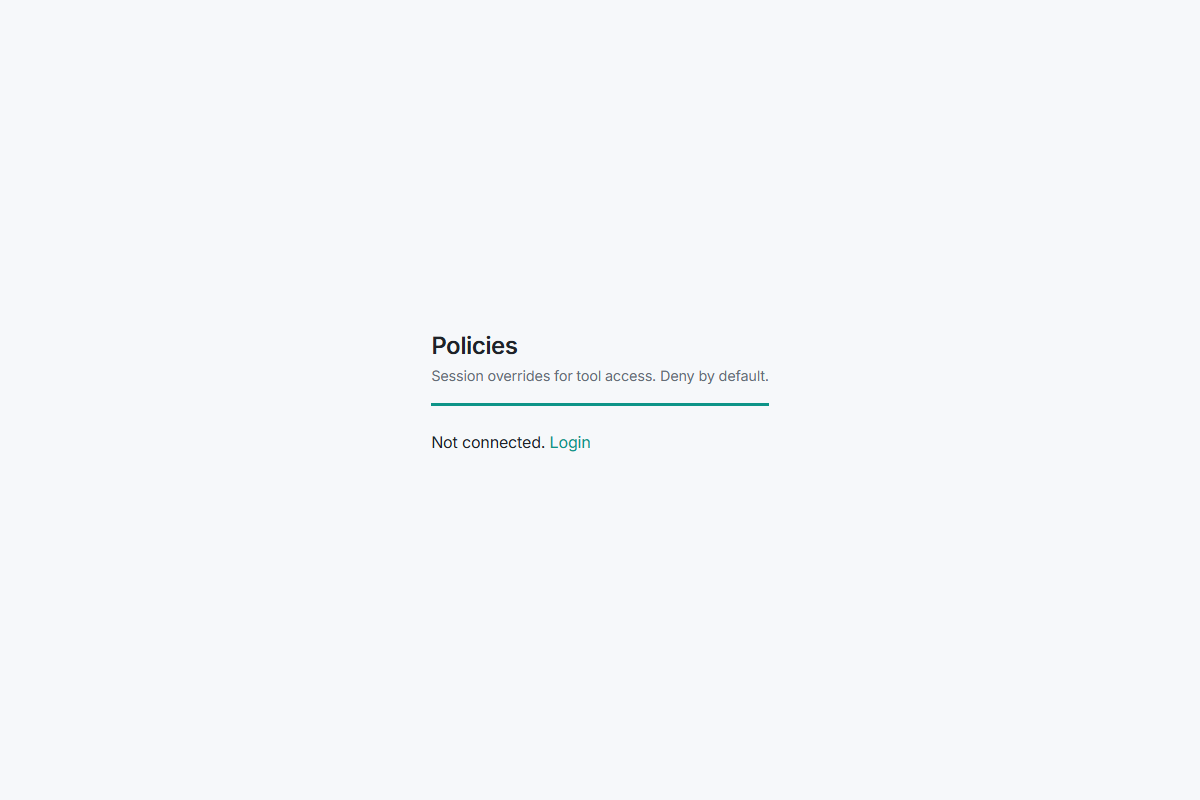
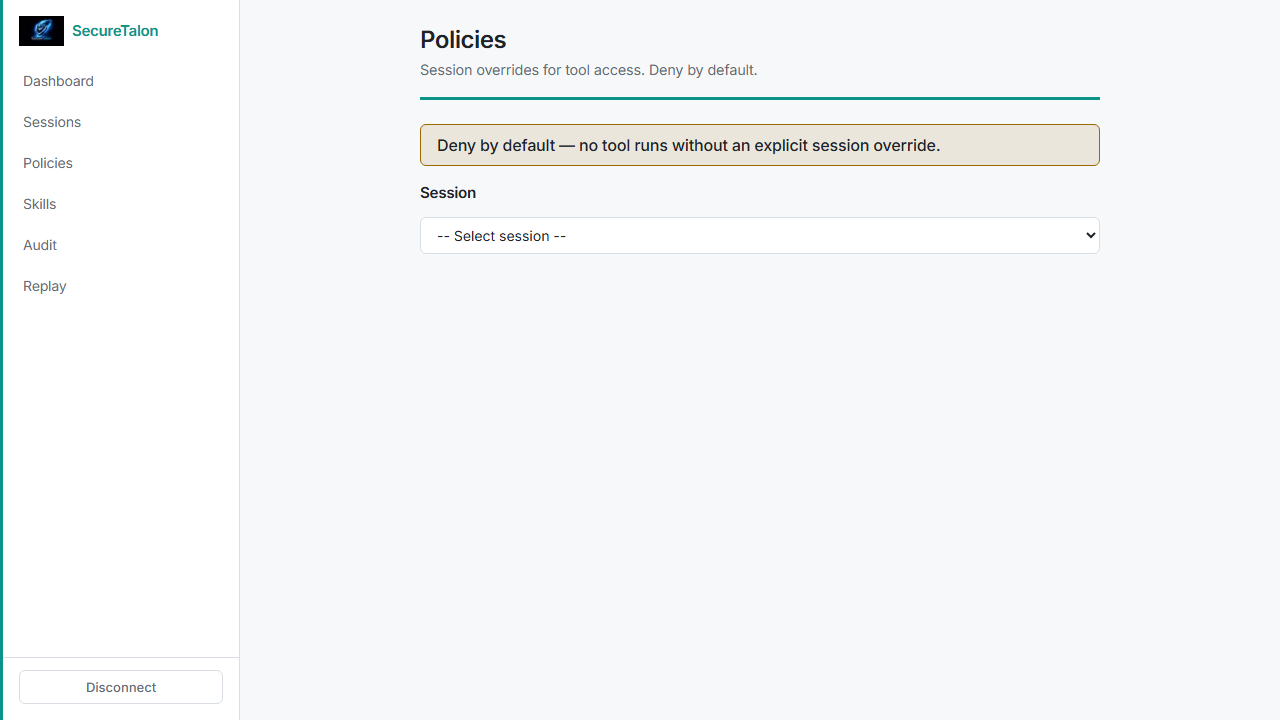
Playwright E2E smoke test, manual screenshots, cleanup obsolete capture scripts

diff --git a/ui/e2e/smoke.spec.ts b/ui/e2e/smoke.spec.ts
@@ -1,0 +1,68 @@
+import { test } from 'playwright/test'
+import { join } from 'path'
+
+const API_BASE = process.env.API_BASE_URL || 'http://localhost:8080'
+const TOKEN = process.env.ADMIN_TOKEN || 'demo'
+const SCREENSHOTS_DIR = process.env.SCREENSHOTS_DIR || join(process.cwd(), '..', 'docs', 'screenshots')
+
+async function apiPost(path: string, body: object) {
+  const res = await fetch(`${API_BASE.replace(/\/$/, '')}${path}`, {
+    method: 'POST',
+    headers: {
+      Authorization: `Bearer ${TOKEN}`,
+      'Content-Type': 'application/json',
+    },
+    body: JSON.stringify(body),
+  })
+  if (!res.ok) throw new Error(`API ${path}: ${res.status} ${await res.text()}`)
+  return res.json() as Promise<Record<string, unknown>>
+}
+
+test.describe('smoke + screenshots', () => {
+  let runId: string
+
+  test.beforeAll(async () => {
+    const session = await apiPost('/v1/sessions', { label: 'E2E smoke', metadata: {} }) as { id: string }
+    const msg = await apiPost(`/v1/sessions/${session.id}/messages`, { content: 'Hello' }) as { run_id: string }
+    runId = msg.run_id
+  })
+
+  test('full smoke: login, then capture each screen at most complete state', async ({ page }) => {
+    await page.goto('/#/login')
+    await page.getByLabel(/API Base URL/i).fill(API_BASE)
+    await page.getByLabel(/Admin Token/i).fill(TOKEN)
+    await page.getByRole('button', { name: /Connect/i }).click()
+    await page.locator('aside.nav').waitFor({ state: 'visible', timeout: 15000 })
+
+    // 1. Dashboard — with sessions list
+    await page.goto('/#/')
+    await page.getByText('Recent Sessions').waitFor({ state: 'visible', timeout: 10000 })
+    await page.waitForTimeout(1500)
+    await page.screenshot({ path: join(SCREENSHOTS_DIR, 'dashboard.png'), fullPage: false })
+
+    // 2. Policies — page loaded
+    await page.goto('/#/policies')
+    await page.getByRole('heading', { name: /Policies/i }).waitFor({ state: 'visible', timeout: 10000 })
+    await page.waitForTimeout(1500)
+    await page.screenshot({ path: join(SCREENSHOTS_DIR, 'policy-editor.png'), fullPage: false })
+
+    // 3. Audit — click Validate chain; capture when result appears or after short wait
+    await page.goto('/#/audit')
+    await page.getByRole('heading', { name: /Audit/i }).waitFor({ state: 'visible', timeout: 10000 })
+    const validateBtn = page.getByRole('button', { name: /Validate chain/i })
+    if (await validateBtn.isVisible()) {
+      await validateBtn.click()
+      await page.locator('.chain-result').waitFor({ state: 'visible', timeout: 20000 }).catch(() => {})
+    }
+    await page.waitForTimeout(1500)
+    await page.screenshot({ path: join(SCREENSHOTS_DIR, 'audit-chain-ok.png'), fullPage: false })
+
+    // 4. Replay — timeline loaded
+    await page.goto('/#/replay')
+    await page.getByPlaceholder(/run_/).fill(runId)
+    await page.getByRole('button', { name: /Load Safe Replay/i }).click()
+    await page.getByText('Timeline').waitFor({ state: 'visible', timeout: 15000 })
+    await page.waitForTimeout(1500)
+    await page.screenshot({ path: join(SCREENSHOTS_DIR, 'replay-viewer.png'), fullPage: false })
+  })
+})

diff --git a/ui/playwright.config.ts b/ui/playwright.config.ts
@@ -1,0 +1,27 @@
+import { defineConfig, devices } from 'playwright/test'
+
+const UI_BASE = process.env.UI_BASE_URL || 'http://localhost:5173'
+
+export default defineConfig({
+  testDir: './e2e',
+  fullyParallel: false,
+  forbidOnly: !!process.env.CI,
+  retries: process.env.CI ? 2 : 0,
+  workers: 1,
+  reporter: 'list',
+  use: {
+    baseURL: UI_BASE,
+    trace: 'on-first-retry',
+    screenshot: 'only-on-failure',
+    video: 'off',
+    viewport: { width: 1200, height: 800 },
+  },
+  projects: [
+    {
+      name: 'chromium',
+      use: { ...devices['Desktop Chrome'] },
+    },
+  ],
+  timeout: 60000,
+  expect: { timeout: 10000 },
+})

diff --git a/docs/screenshots/README.md b/docs/screenshots/README.md
@@ -6,16 +6,14 @@ These PNGs are shown in the main [README](../../README.md). Keep them up to date
 |------|---------|
 | `dashboard.png` | Dashboard: recent sessions, quick links. |
 | `policy-editor.png` | Policy editor: session selector, effective policy, session overrides, tool constraints, guardrails. |
-| `audit-chain-ok.png` | Audit page: filters, “Chain OK” badge, table or timeline. |
-| `replay-viewer.png` | Replay page: run ID input, “Load Safe Replay”, timeline with step-through (prev/next, jump to type). |
+| `audit-chain-ok.png` | Audit page: filters, "Chain OK" badge, table or timeline. |
+| `replay-viewer.png` | Replay page: run ID input, "Load Safe Replay", timeline with step-through (prev/next, jump to type). |
 
 **Recommended size:** 1200×800 (or ~1200px wide) so the README table looks good.
 
 ---
 
-## How to capture real screenshots
-
-### Option A: Manual (most reliable)
+## How to capture screenshots (manual)
 
 1. **Start the backend** (from repo root):
    ```powershell
@@ -37,34 +35,23 @@ These PNGs are shown in the main [README](../../README.md). Keep them up to date
 4. **Capture each screen** at **1200×800** (or resize browser to ~1200px wide and full height, then crop to 800px tall if needed):
    - **Dashboard** — open `/#/` (home). Screenshot → save as `docs/screenshots/dashboard.png`.
    - **Policy editor** — open `/#/policies`. Screenshot → save as `docs/screenshots/policy-editor.png`.
-   - **Audit** — open `/#/audit`. Optionally click “Validate chain” so “Chain OK” shows. Screenshot → save as `docs/screenshots/audit-chain-ok.png`.
+   - **Audit** — open `/#/audit`. Optionally click "Validate chain" so "Chain OK" shows. Screenshot → save as `docs/screenshots/audit-chain-ok.png`.
    - **Replay** — open `/#/replay`. Screenshot → save as `docs/screenshots/replay-viewer.png`.
 
 5. **Replace** the existing PNGs in `docs/screenshots/` with your four files.
 
-### Option B: Automated (Playwright)
+---
 
-With **backend** and **UI** already running:
+## Automated capture (E2E test)
+
+With **backend** and **UI** already running, the Playwright smoke test logs in, seeds a session and run, then captures each screen at its most complete state and saves to `docs/screenshots/`:
 
 ```powershell
 cd ui
-npm install
 npx playwright install chromium
 $env:UI_BASE_URL = "http://localhost:5173"   # or your UI port
-$env:API_BASE_URL = "http://localhost:8090"
-npm run capture-screenshots
+$env:API_BASE_URL = "http://localhost:8080"  # or 8090
+npm run test:e2e
 ```
 
-Screenshots are written to `docs/screenshots/`. If the script fails (e.g. login form not found in headless), use **Option A** instead.
-
----
-
-## One-shot script (PowerShell)
-
-From repo root you can try:
-
-```powershell
-.\scripts\capture-readme-screenshots.ps1
-```
-
-This starts the backend and UI, runs the Playwright capture, then stops the servers. If automation fails in your environment, use manual capture (Option A) above.
+Screenshots are written to `docs/screenshots/` (dashboard, policy-editor, audit-chain-ok, replay-viewer).
